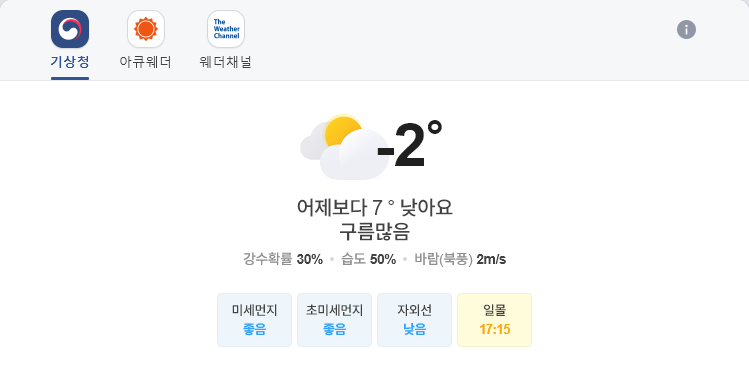
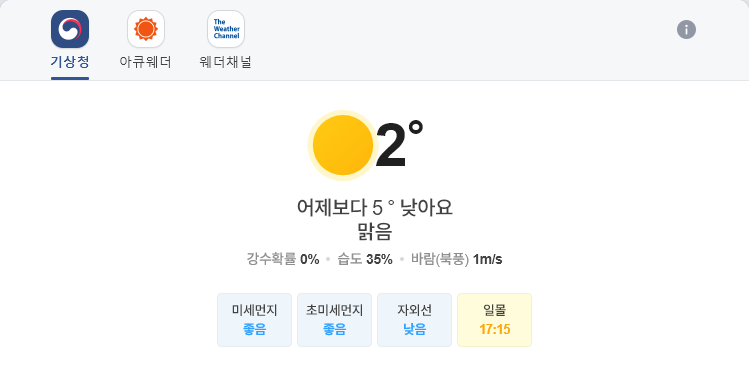
update result

Changed region(s): [[0.3992, 0.288, 0.6142, 0.4895], [0.3071, 0.6623, 0.6756, 0.6911], [0.4606, 0.5183, 0.5527, 0.6335]]

diff --git a/README.md b/README.md
@@ -1,13 +1,13 @@
-##  2020-12-08 09:16:57   화요일 
-##### 날씨   -   어제보다 7 ° 낮아요구름많음
+##  2020-12-08 12:07:29   화요일 
+##### 날씨   -   어제보다 6 ° 낮아요맑음
 <center><img src="../img/naver_weather_week.png"></center>
 ----
 ----
 ##### 지수
 <table border="1" bordercolor="blue" align = "center" >
 <tr align = "right" > <td>Item</td><td>Point</td><td>Diff</td><td>Rate</td><td>Buy</td><td>Sell</td><td>...</td>  </tr>
-<tr align = "right" > <td>KOSPI</td><td>2,736.61</td><td>-8.83</td><td><font size="3" color="blue" >-0.32%</font> </td><td><font size="3" color="black">2,000</font></td><td><font size="3" color="black">3,000</font></td><td>0</td>  </tr>
-<tr align = "right" > <td>KOSDAQ</td><td>933.07</td><td>6.19</td><td><font size="3" color="red" >0.67%</font> </td><td><font size="3" color="black">0</font></td><td><font size="3" color="black">0</font></td><td>0</td>  </tr>
+<tr align = "right" > <td>KOSPI</td><td>2,712.1</td><td>-33.34</td><td><font size="3" color="blue" >-1.21%</font> </td><td><font size="3" color="black">2,000</font></td><td><font size="3" color="black">3,000</font></td><td>0</td>  </tr>
+<tr align = "right" > <td>KOSDAQ</td><td>916.34</td><td>-10.54</td><td><font size="3" color="blue" >-1.14%</font> </td><td><font size="3" color="black">0</font></td><td><font size="3" color="black">0</font></td><td>0</td>  </tr>
 </table>
 ----
 ##### 세계
@@ -16,14 +16,14 @@
 <tr align = "right" > <td>DOW</td><td>30,069.79</td><td>-148.47</td><td><font size="3" color="blue" >-0.49%</font></td><td><font size="3" color="black">0</font></td><td><font size="3" color="black">0</font></td><td>0</td>  </tr>
 <tr align = "right" > <td>NASDAQ</td><td>12,519.95</td><td>55.72</td><td><font size="3" color="red" >0.45%</font></td><td><font size="3" color="black">0</font></td><td><font size="3" color="black">0</font></td><td>0</td>  </tr>
 <tr align = "right" > <td>S&P</td><td>3,691.96</td><td>-7.16</td><td><font size="3" color="blue" >-0.19%</font></td><td><font size="3" color="black">0</font></td><td><font size="3" color="black">0</font></td><td>0</td>  </tr>
-<tr align = "right" > <td>SHANHAI</td><td>3,416.6</td><td>-27.98</td><td><font size="3" color="blue" >-0.81%</font></td><td><font size="3" color="black">0</font></td><td><font size="3" color="black">0</font></td><td>0</td>  </tr>
+<tr align = "right" > <td>SHANHAI</td><td>3,413.79</td><td>-2.81</td><td><font size="3" color="blue" >-0.08%</font></td><td><font size="3" color="black">0</font></td><td><font size="3" color="black">0</font></td><td>0</td>  </tr>
 <tr align = "right" > <td>INDIA</td><td>45,426.97</td><td>347.42</td><td><font size="3" color="red" >0.77%</font></td><td><font size="3" color="black">0</font></td><td><font size="3" color="black">0</font></td><td>0</td>  </tr>
 </table>
 ----
 ##### 시장
 <table border="1" bordercolor="blue" align = "center" >
 <tr align = "right" > <td>Item</td><td>Price</td><td>Diff</td><td>Rate</td><td>Buy</td><td>Sell</td><td>...</td>  </tr>
-<tr align = "right" > <td>USD</td><td>1,084.0</td><td>-1.9</td><td><font size="3" color="blue">-0.17%</font></td><td><font size="3" color="orangered">1,110</font></td><td><font size="3" color="black">0</font></td><td>0</td>  </tr>
+<tr align = "right" > <td>USD</td><td>1,084.0</td><td>-2.1</td><td><font size="3" color="blue">-0.19%</font></td><td><font size="3" color="orangered">1,110</font></td><td><font size="3" color="black">0</font></td><td>0</td>  </tr>
 <tr align = "right" > <td>WTI</td><td>45.76</td><td>-0.5</td><td><font size="3" color="blue">-1.08%</font></td><td><font size="3" color="black">29.0</font></td><td><font size="3" color="black">0</font></td><td>0</td>  </tr>
 <tr align = "right" > <td>GOLD</td><td>1,861.0</td><td>25.9</td><td><font size="3" color="red">1.41%</font></td><td><font size="3" color="black">0</font></td><td><font size="3" color="black">0</font></td><td>0</td>  </tr>
 </table>
@@ -31,23 +31,23 @@
 ##### 주가
 <table border="1" bordercolor="blue" align = "center" >
 <tr align = "right" > <td>Item</td><td>Price</td><td>Diff</td><td>Rate</td><td>Purchased</td><td>Sell</td><td>Buy</td>  </tr>
-<tr align = "right" > <td>한국 전력</td><td>21,650</td><td>-250</td><td><font size="3" color="blue">-1.14%</font></td><td>25,720</td><td><font size="3" color="black">30,000</font></td><td><font size="3" color="black">14,000</font></td>  </tr>
-<tr align = "right" > <td>삼성엔지니어.</td><td>13,450</td><td>-150</td><td><font size="3" color="blue">-1.1%</font></td><td>18,935</td><td><font size="3" color="black">20,000</font></td><td><font size="3" color="black">8,000</font></td>  </tr>
-<tr align = "right" > <td>CJ CGV</td><td>22,950</td><td>50</td><td><font size="3" color="red">0.22%</font></td><td>34,895</td><td><font size="3" color="black">36,000</font></td><td><font size="3" color="black">0</font></td>  </tr>
+<tr align = "right" > <td>한국 전력</td><td>21,550</td><td>-350</td><td><font size="3" color="blue">-1.6%</font></td><td>25,720</td><td><font size="3" color="black">30,000</font></td><td><font size="3" color="black">14,000</font></td>  </tr>
+<tr align = "right" > <td>삼성엔지니어.</td><td>13,350</td><td>-250</td><td><font size="3" color="blue">-1.84%</font></td><td>18,935</td><td><font size="3" color="black">20,000</font></td><td><font size="3" color="black">8,000</font></td>  </tr>
+<tr align = "right" > <td>CJ CGV</td><td>23,100</td><td>200</td><td><font size="3" color="red">0.87%</font></td><td>34,895</td><td><font size="3" color="black">36,000</font></td><td><font size="3" color="black">0</font></td>  </tr>
 <tr align = "right" > <td>아모레퍼시픽</td><td>194,000</td><td>0</td><td><font size="3" color="black">0.0%</font></td><td>235,350</td><td><font size="3" color="black">240,000</font></td><td><font size="3" color="black">130,000</font></td>  </tr>
-<tr align = "right" > <td>한화</td><td>25,900</td><td>0</td><td><font size="3" color="black">0.0%</font></td><td>25,550</td><td><font size="3" color="black">30,000</font></td><td><font size="3" color="black">20,000</font></td>  </tr>
-<tr align = "right" > <td>NAVER</td><td>288,000</td><td>-1,500</td><td><font size="3" color="blue">-0.52%</font></td><td>147,200</td><td><font size="3" color="black">400,000</font></td><td><font size="3" color="black">150,000</font></td>  </tr>
-<tr align = "right" > <td>LG 화학우</td><td>380,500</td><td>4,500</td><td><font size="3" color="red">1.2%</font></td><td>202,490</td><td><font size="3" color="black">500,000</font></td><td><font size="3" color="black">200,000</font></td>  </tr>
-<tr align = "right" > <td>스튜디오드래.</td><td>84,300</td><td>1,800</td><td><font size="3" color="red">2.18%</font></td><td>81,243</td><td><font size="3" color="black">100,000</font></td><td><font size="3" color="black">78,000</font></td>  </tr>
-<tr align = "right" > <td>글로벌럭셔리</td><td>14,440</td><td>65</td><td><font size="3" color="red">0.45%</font></td><td>0</td><td><font size="3" color="black">15,000</font></td><td><font size="3" color="black">10,000</font></td>  </tr>
-<tr align = "right" > <td>QV미국IT</td><td>25,050</td><td>100</td><td><font size="3" color="red">0.4%</font></td><td>0</td><td><font size="3" color="black">30,000</font></td><td><font size="3" color="black">20,000</font></td>  </tr>
-<tr align = "right" > <td>호텔 신라</td><td>81,200</td><td>-200</td><td><font size="3" color="blue">-0.25%</font></td><td>72,800</td><td><font size="3" color="black">100,000</font></td><td><font size="3" color="black">70,000</font></td>  </tr>
-<tr align = "right" > <td>S-Oil</td><td>70,200</td><td>-500</td><td><font size="3" color="blue">-0.71%</font></td><td>62,842</td><td><font size="3" color="black">100,000</font></td><td><font size="3" color="black">50,000</font></td>  </tr>
-<tr align = "right" > <td>LG전자</td><td>92,700</td><td>3,500</td><td><font size="3" color="red">3.92%</font></td><td>82,022</td><td><font size="3" color="black">100,000</font></td><td><font size="3" color="black">60,000</font></td>  </tr>
-<tr align = "right" > <td>지역난방공사</td><td>39,400</td><td>-150</td><td><font size="3" color="blue">-0.38%</font></td><td>43,590</td><td><font size="3" color="black">60,000</font></td><td><font size="3" color="black">30,000</font></td>  </tr>
-<tr align = "right" > <td>KOEDX은행</td><td>6,185</td><td>-90</td><td><font size="3" color="blue">-1.43%</font></td><td>5,178</td><td><font size="3" color="black">6,000</font></td><td><font size="3" color="black">4,500</font></td>  </tr>
-<tr align = "right" > <td>삼성 전자우</td><td>66,200</td><td>-500</td><td><font size="3" color="blue">-0.75%</font></td><td>48,250</td><td><font size="3" color="black">56,000</font></td><td><font size="3" color="black">45,000</font></td>  </tr>
-<tr align = "right" > <td>한화에어로스.</td><td>26,050</td><td>-150</td><td><font size="3" color="blue">-0.57%</font></td><td>25,700</td><td><font size="3" color="black">30,000</font></td><td><font size="3" color="black">24,000</font></td>  </tr>
-<tr align = "right" > <td>한국금융지주</td><td>79,300</td><td>-600</td><td><font size="3" color="blue">-0.75%</font></td><td>0</td><td><font size="3" color="black">82,000</font></td><td><font size="3" color="black">60,000</font></td>  </tr>
+<tr align = "right" > <td>한화</td><td>25,800</td><td>-100</td><td><font size="3" color="blue">-0.39%</font></td><td>25,550</td><td><font size="3" color="black">30,000</font></td><td><font size="3" color="black">20,000</font></td>  </tr>
+<tr align = "right" > <td>NAVER</td><td>285,000</td><td>-4,500</td><td><font size="3" color="blue">-1.55%</font></td><td>147,200</td><td><font size="3" color="black">400,000</font></td><td><font size="3" color="black">150,000</font></td>  </tr>
+<tr align = "right" > <td>LG 화학우</td><td>370,500</td><td>-5,500</td><td><font size="3" color="blue">-1.46%</font></td><td>202,490</td><td><font size="3" color="black">500,000</font></td><td><font size="3" color="black">200,000</font></td>  </tr>
+<tr align = "right" > <td>스튜디오드래.</td><td>84,000</td><td>1,500</td><td><font size="3" color="red">1.82%</font></td><td>81,243</td><td><font size="3" color="black">100,000</font></td><td><font size="3" color="black">78,000</font></td>  </tr>
+<tr align = "right" > <td>글로벌럭셔리</td><td>14,445</td><td>70</td><td><font size="3" color="red">0.49%</font></td><td>0</td><td><font size="3" color="black">15,000</font></td><td><font size="3" color="black">10,000</font></td>  </tr>
+<tr align = "right" > <td>QV미국IT</td><td>24,915</td><td>-35</td><td><font size="3" color="blue">-0.14%</font></td><td>0</td><td><font size="3" color="black">30,000</font></td><td><font size="3" color="black">20,000</font></td>  </tr>
+<tr align = "right" > <td>호텔 신라</td><td>81,100</td><td>-300</td><td><font size="3" color="blue">-0.37%</font></td><td>72,800</td><td><font size="3" color="black">100,000</font></td><td><font size="3" color="black">70,000</font></td>  </tr>
+<tr align = "right" > <td>S-Oil</td><td>69,600</td><td>-1,100</td><td><font size="3" color="blue">-1.56%</font></td><td>62,842</td><td><font size="3" color="black">100,000</font></td><td><font size="3" color="black">50,000</font></td>  </tr>
+<tr align = "right" > <td>LG전자</td><td>94,800</td><td>5,600</td><td><font size="3" color="red">6.28%</font></td><td>82,022</td><td><font size="3" color="black">100,000</font></td><td><font size="3" color="black">60,000</font></td>  </tr>
+<tr align = "right" > <td>지역난방공사</td><td>39,100</td><td>-450</td><td><font size="3" color="blue">-1.14%</font></td><td>43,590</td><td><font size="3" color="black">60,000</font></td><td><font size="3" color="black">30,000</font></td>  </tr>
+<tr align = "right" > <td>KOEDX은행</td><td>6,150</td><td>-125</td><td><font size="3" color="blue">-1.99%</font></td><td>5,178</td><td><font size="3" color="black">6,000</font></td><td><font size="3" color="black">4,500</font></td>  </tr>
+<tr align = "right" > <td>삼성 전자우</td><td>65,900</td><td>-800</td><td><font size="3" color="blue">-1.2%</font></td><td>48,250</td><td><font size="3" color="black">56,000</font></td><td><font size="3" color="black">45,000</font></td>  </tr>
+<tr align = "right" > <td>한화에어로스.</td><td>25,900</td><td>-300</td><td><font size="3" color="blue">-1.15%</font></td><td>25,700</td><td><font size="3" color="black">30,000</font></td><td><font size="3" color="black">24,000</font></td>  </tr>
+<tr align = "right" > <td>한국금융지주</td><td>78,100</td><td>-1,800</td><td><font size="3" color="blue">-2.25%</font></td><td>0</td><td><font size="3" color="black">82,000</font></td><td><font size="3" color="black">60,000</font></td>  </tr>
 </table>
 ----
